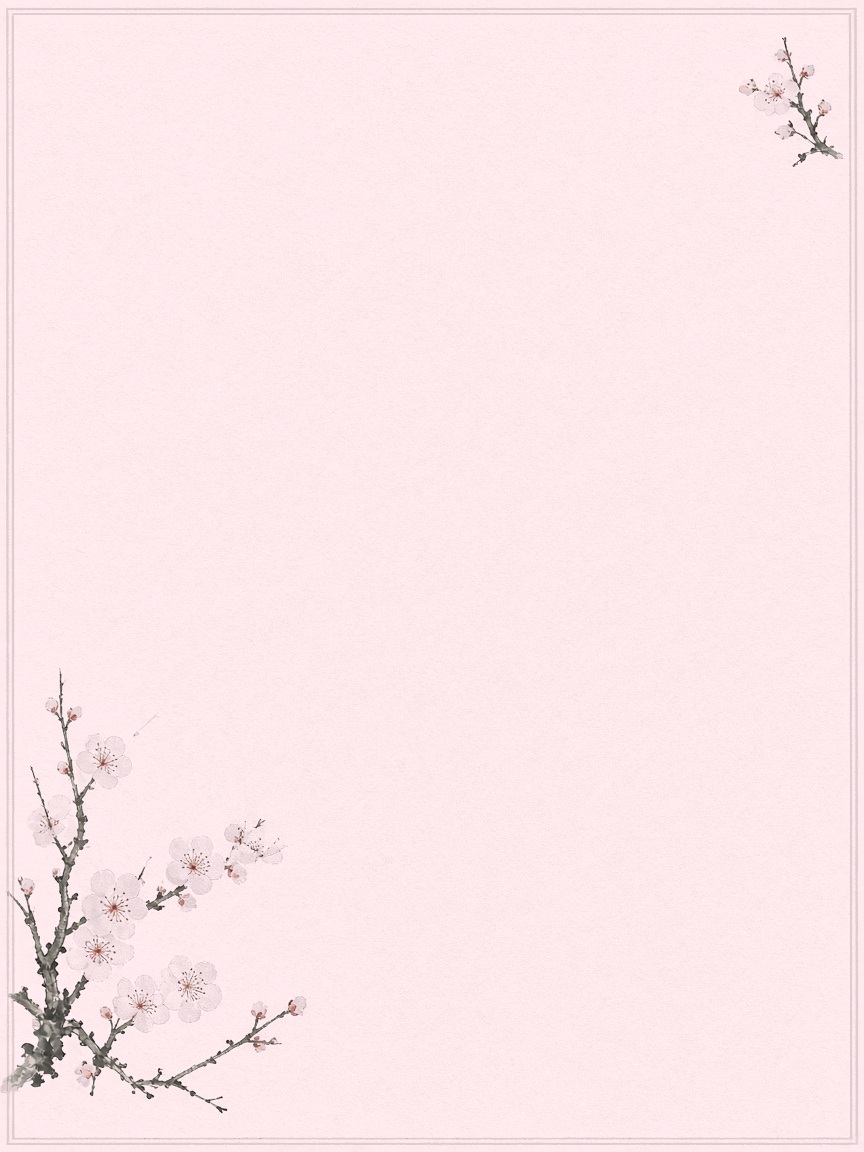
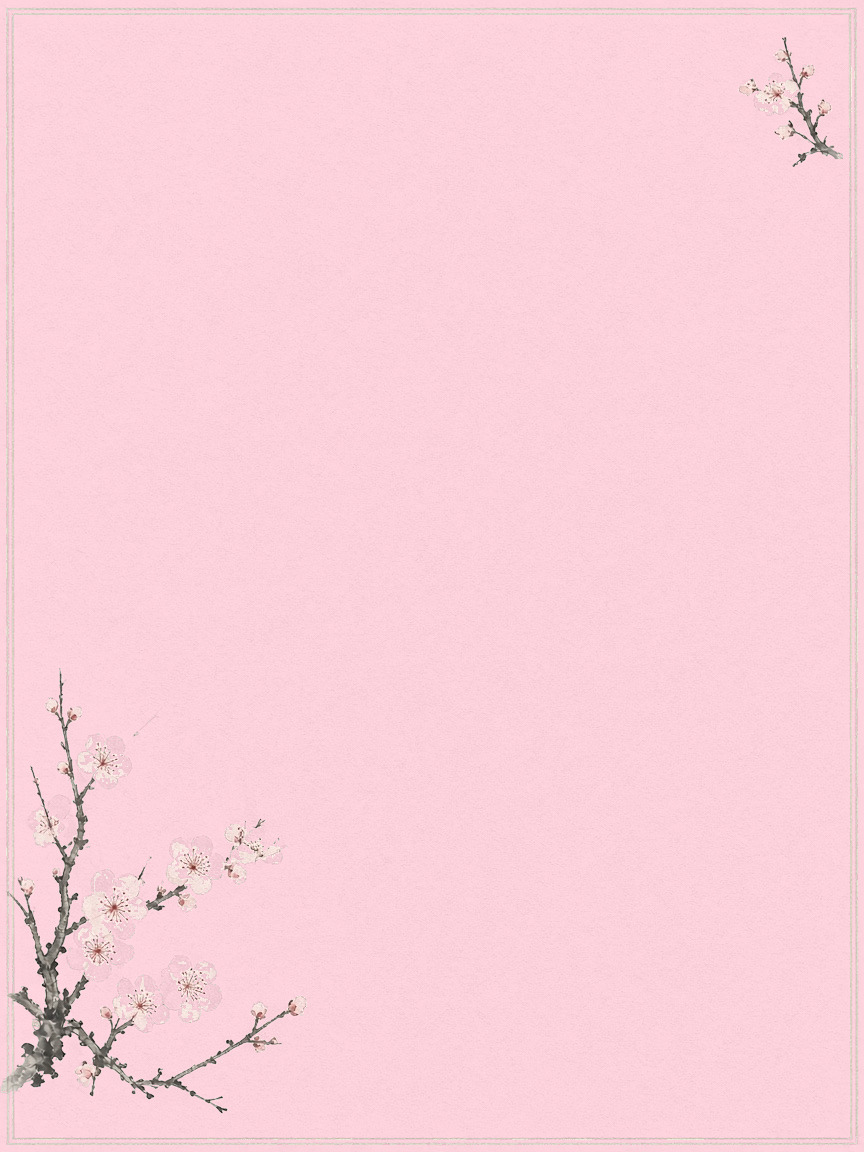
把梅蘭菊牡丹紙色加深到一眼能分出來，並讓田字格透出底色。
上一版紙色太接近米白，加上格底實心白，選背景時幾乎看不出來。

diff --git a/copybook/app.js b/copybook/app.js
@@ -49,11 +49,11 @@
     var STROKE_CELLS_PER_LINE = 12;
     var BRUSH_FONT_STACK = "'YShiPenShutiTC', 'Kaiti TC', 'STKaiti', 'KaiTi', serif";
     var PHOTO_BGS = {
-        plum: 'backgrounds/\u6885\u82b1.jpg?v=2',
-        orchid: 'backgrounds/\u862d\u82b1.jpg?v=2',
-        bamboo: 'backgrounds/\u7af9\u5b50.jpg?v=2',
-        chrysanthemum: 'backgrounds/\u83ca\u82b1.jpg?v=2',
-        peony: 'backgrounds/\u7261\u4e39.jpg?v=2'
+        plum: 'backgrounds/\u6885\u82b1.jpg?v=3',
+        orchid: 'backgrounds/\u862d\u82b1.jpg?v=3',
+        bamboo: 'backgrounds/\u7af9\u5b50.jpg?v=3',
+        chrysanthemum: 'backgrounds/\u83ca\u82b1.jpg?v=3',
+        peony: 'backgrounds/\u7261\u4e39.jpg?v=3'
     };
     var preview = document.getElementById('preview');
     var btnPdf = document.getElementById('btnPdf');
@@ -618,7 +618,7 @@
                 ? rawBg
                 : 'none';
         var useSheetBg = !!(uploadedBgUrl || photoBgUrl);
-        var cellBgVal = uploadedBgUrl ? 'translucent' : 'white';
+        var cellBgVal = photoBgUrl ? 'paper' : (uploadedBgUrl ? 'translucent' : 'white');
         preview.className =
             'preview preview--' +
             psize +

diff --git a/copybook/index.html b/copybook/index.html
@@ -12,7 +12,7 @@
     <link rel="preconnect" href="https://fonts.gstatic.com" crossorigin>
     <link href="https://fonts.googleapis.com/css2?family=Noto+Sans+TC:wght@400;500;600&family=Noto+Serif+TC:wght@500;600&family=ZCOOL+XiaoWei&display=swap" rel="stylesheet">
     <link rel="preload" href="fonts/YshiPenShutiTC-Regular.woff2" as="font" type="font/woff2" crossorigin>
-    <link rel="stylesheet" href="style.css?v=62">
+    <link rel="stylesheet" href="style.css?v=63">
     <script src="https://cdn.jsdelivr.net/npm/html2canvas-pro@2.4.5/dist/html2canvas-pro.min.js"></script>
     <script src="https://cdn.jsdelivr.net/npm/jspdf@2.5.1/dist/jspdf.umd.min.js"></script>
 </head>
@@ -211,6 +211,6 @@
         </div>
     </div>
 
-    <script src="app.js?v=66"></script>
+    <script src="app.js?v=67"></script>
 </body>
 </html>

diff --git a/copybook/style.css b/copybook/style.css
@@ -533,6 +533,10 @@ button:hover {
     --cell-bg: rgba(255, 255, 255, 0.62);
 }
 
+.preview--cellbg-paper {
+    --cell-bg: rgba(255, 255, 255, 0.18);
+}
+
 .preview--cellbg-transparent {
     --cell-bg: transparent;
 }
@@ -615,6 +619,11 @@ button:hover {
     transition: background 0.3s, border-color 0.3s;
     print-color-adjust: exact;
     -webkit-print-color-adjust: exact;
+}
+
+.preview--bg-sheet .page,
+.preview.preview--exporting.preview--bg-sheet .page {
+    background: transparent;
 }
 
 .page-upload-bg,
